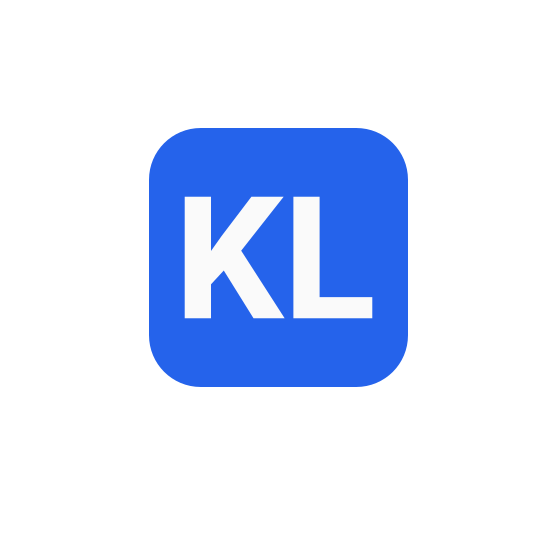
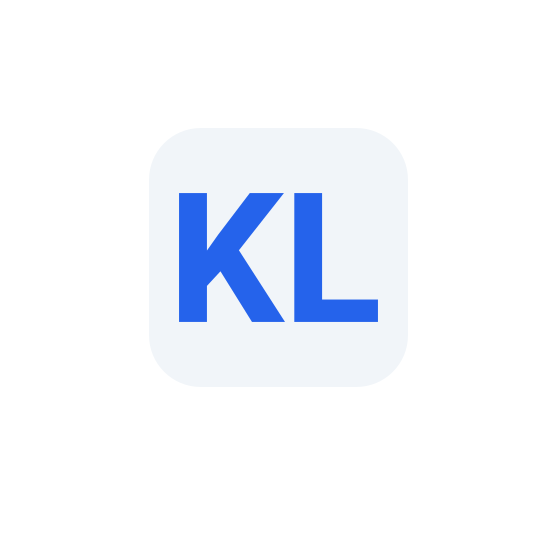
new images, reverse coloring

Changed region(s): [[0.2437, 0.2133, 0.7312, 0.7007]]

diff --git a/public/index.html b/public/index.html
@@ -7,18 +7,17 @@
       name="description"
       content="Konolist is a simple list web app that allows you to create as many lists and tasks as you need. Your data is kept solely on your device's browser, protected."
     />
-    <meta name="theme-color" content="#2563eb">
-    <meta name="msapplication-TileColor" content="#da532c">
+    <meta name="theme-color" content="#f1f5f9">
+    <meta name="msapplication-TileColor" content="#2563eb">
 
     <link rel="manifest" href="%PUBLIC_URL%/manifest.json" />
 
     <link rel="apple-touch-icon" href="%PUBLIC_URL%/logo192.png" />
-    <link rel="mask-icon" href="%PUBLIC_URL%/safari-pinned-tab.svg" color="#5c80e2">
-
     <link rel="icon" href="%PUBLIC_URL%/favicon.ico" />
     <link rel="icon" type="image/png" sizes="32x32" href="%PUBLIC_URL%/favicon-32x32.png">
     <link rel="icon" type="image/png" sizes="16x16" href="%PUBLIC_URL%/favicon-16x16.png">
     <link rel="icon" href="%PUBLIC_URL%/favicon.svg" type="image/svg+xml">
+    <link rel="mask-icon" href="%PUBLIC_URL%/safari-pinned-tab.svg" color="#2563eb">
     
     <title>Konolist</title>
   </head>
